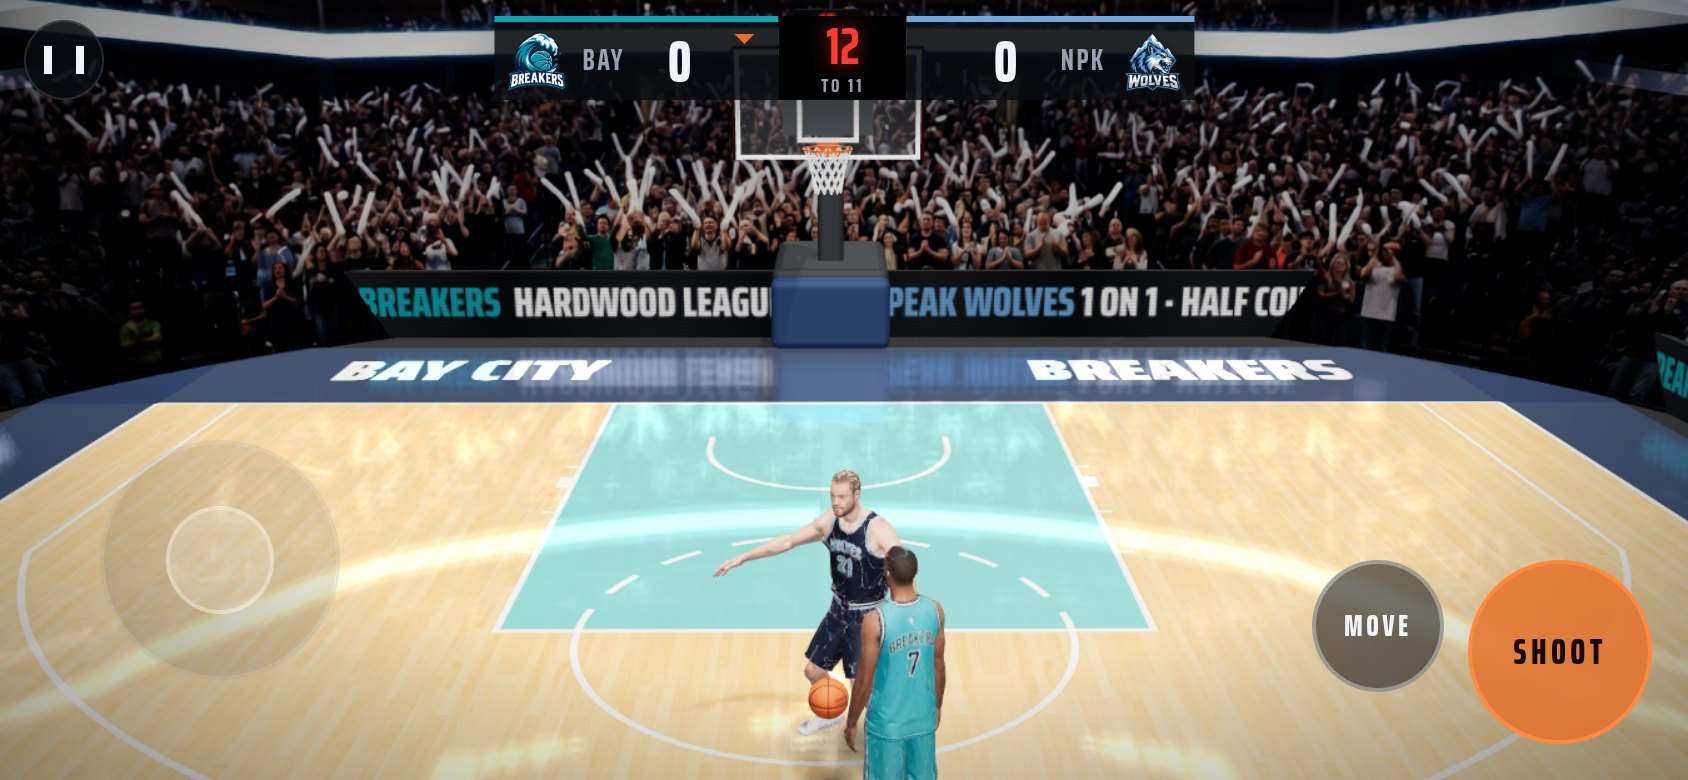
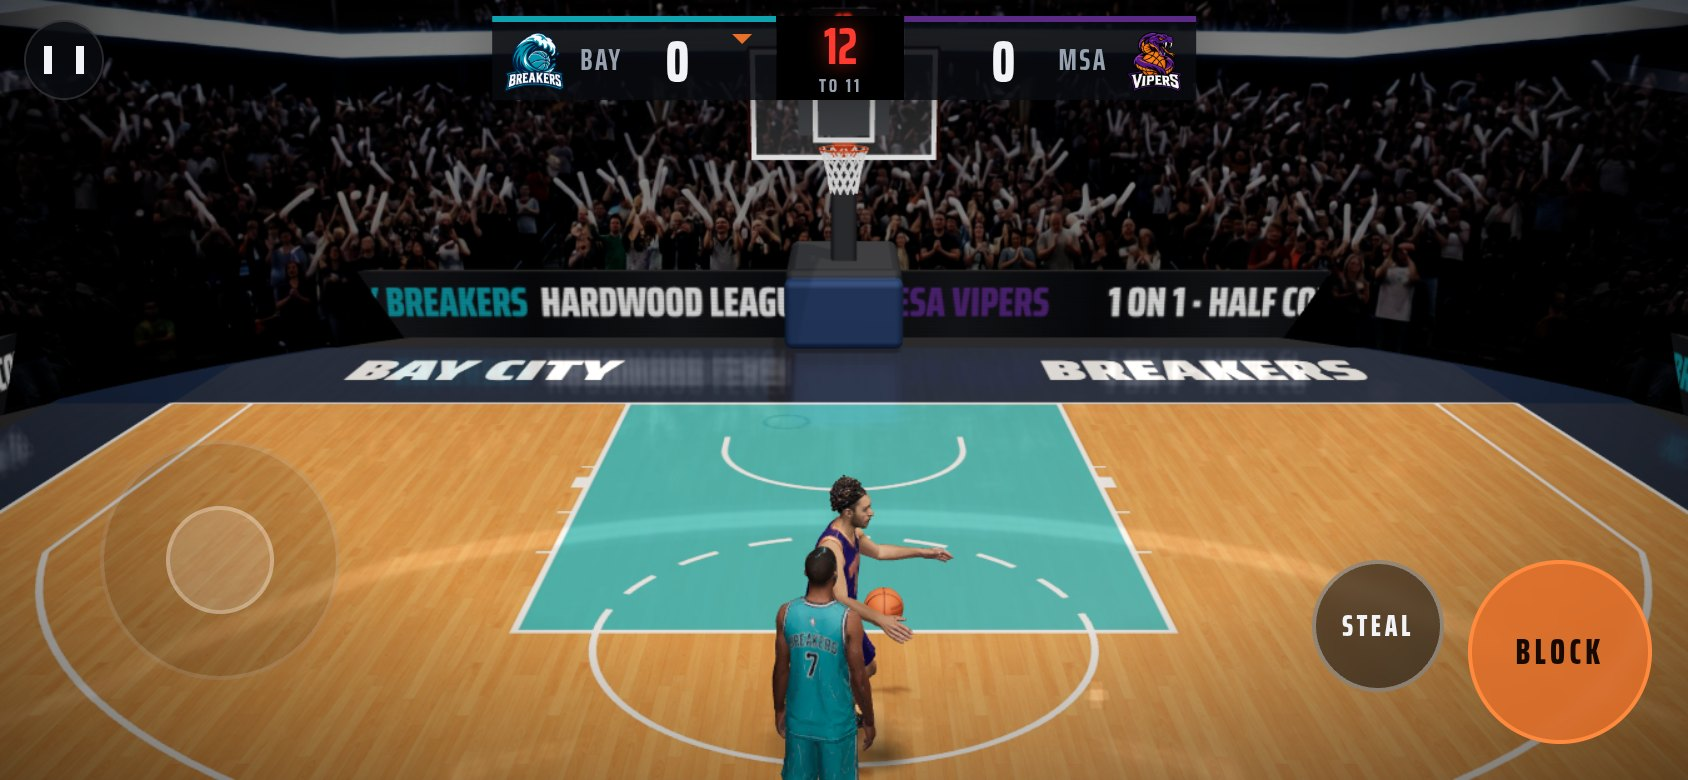
Hardwood: load player models under strict CSP; darker, higher-contrast lighting
- Models: decode the inlined base64 buffer in JS and parse an in-memory
  GLB, since hosts with connect-src 'self' refuse fetches of data: URIs
  (that made every player fall back to the built-in body)
- Lighting: lower exposure, hemisphere/fill/spot and environment
  reflections; warmer, deeper hardwood; dimmer stands; softer floor
  reflections; stronger vignette

Claude-Session: https://claude.ai/code/session_01A6QokmjSrtzSTHC6R9iMnj

diff --git a/hardwood/js/player.js b/hardwood/js/player.js
@@ -7,8 +7,36 @@ import { GLTFLoader } from 'three/addons/loaders/GLTFLoader.js';
 
 const gltfCache = new Map();
 export function loadModel(url) {
-  if (!gltfCache.has(url)) gltfCache.set(url, new GLTFLoader().loadAsync(url));
+  if (!gltfCache.has(url)) gltfCache.set(url, fetchModel(url));
   return gltfCache.get(url);
+}
+
+// Models ship as glTF JSON with the geometry buffer inlined as base64. Strict
+// hosts (CSP connect-src 'self') refuse to fetch data: URIs, so decode the
+// buffer here and hand GLTFLoader an in-memory GLB instead.
+async function fetchModel(url) {
+  const res = await fetch(url);
+  if (!res.ok) throw new Error(`model ${url}: HTTP ${res.status}`);
+  const json = await res.json();
+  const buf = json.buffers && json.buffers[0];
+  const base = url.slice(0, url.lastIndexOf('/') + 1);
+  const loader = new GLTFLoader();
+  if (!buf || !buf.uri || !buf.uri.startsWith('data:')) return loader.parseAsync(JSON.stringify(json), base);
+  const b64 = buf.uri.slice(buf.uri.indexOf(',') + 1);
+  const bin = Uint8Array.from(atob(b64), (c) => c.charCodeAt(0));
+  delete buf.uri;
+  buf.byteLength = bin.length;
+  const enc = new TextEncoder().encode(JSON.stringify(json));
+  const jsonLen = (enc.length + 3) & ~3, binLen = (bin.length + 3) & ~3;
+  const glb = new Uint8Array(12 + 8 + jsonLen + 8 + binLen);
+  const dv = new DataView(glb.buffer);
+  dv.setUint32(0, 0x46546c67, true); dv.setUint32(4, 2, true); dv.setUint32(8, glb.length, true);
+  dv.setUint32(12, jsonLen, true); dv.setUint32(16, 0x4e4f534a, true);
+  glb.set(enc, 20);
+  glb.fill(0x20, 20 + enc.length, 20 + jsonLen);
+  dv.setUint32(20 + jsonLen, binLen, true); dv.setUint32(24 + jsonLen, 0x004e4942, true);
+  glb.set(bin, 28 + jsonLen);
+  return loader.parseAsync(glb.buffer, base);
 }
 
 const _m = new THREE.Matrix4();
@@ -119,9 +147,9 @@ export class Player {
 
   build() {
     const s = this.s, L = this.L, team = this.team, info = this.info;
-    const skin = new THREE.MeshPhysicalMaterial({ color: info.skin, roughness: 0.52, clearcoat: 0.25, clearcoatRoughness: 0.45, sheen: 0.2, sheenColor: new THREE.Color('#ffd9c0') });
-    const jerseyMat = new THREE.MeshPhysicalMaterial({ map: jerseyTexture(team, info, this.away), roughness: 0.78, sheen: 0.6, sheenRoughness: 0.5, sheenColor: new THREE.Color('#ffffff'), side: THREE.DoubleSide });
-    const shortsMat = new THREE.MeshPhysicalMaterial({ map: shortsTexture(team, this.away), roughness: 0.72, sheen: 0.5, sheenColor: new THREE.Color('#ffffff'), side: THREE.DoubleSide });
+    const skin = new THREE.MeshPhysicalMaterial({ color: info.skin, roughness: 0.55, clearcoat: 0.2, clearcoatRoughness: 0.45, sheen: 0.15, sheenColor: new THREE.Color('#ffd9c0'), envMapIntensity: 0.35 });
+    const jerseyMat = new THREE.MeshPhysicalMaterial({ map: jerseyTexture(team, info, this.away), roughness: 0.8, sheen: 0.3, sheenRoughness: 0.5, sheenColor: new THREE.Color('#ffffff'), side: THREE.DoubleSide, envMapIntensity: 0.35 });
+    const shortsMat = new THREE.MeshPhysicalMaterial({ map: shortsTexture(team, this.away), roughness: 0.75, sheen: 0.3, sheenColor: new THREE.Color('#ffffff'), side: THREE.DoubleSide, envMapIntensity: 0.35 });
     const hairMat = new THREE.MeshStandardMaterial({ color: info.hair.color, roughness: 0.85 });
     const sockMat = new THREE.MeshStandardMaterial({ color: '#f2f2f2', roughness: 0.9 });
     const shoeMat = new THREE.MeshStandardMaterial({ color: this.away ? '#f4f4f4' : '#141414', roughness: 0.5 });
@@ -632,7 +660,7 @@ export class Player {
     this.root.traverse((o) => { if (o.isMesh) o.visible = false; });
     // look
     const map = mesh.material.map;
-    mesh.material = new THREE.MeshStandardMaterial({ map, roughness: 0.68, metalness: 0, envMapIntensity: 0.55 });
+    mesh.material = new THREE.MeshStandardMaterial({ map, roughness: 0.7, metalness: 0, envMapIntensity: 0.3 });
     mesh.castShadow = true;
     mesh.receiveShadow = true;
     mesh.frustumCulled = false;

diff --git a/hardwood/js/arena.js b/hardwood/js/arena.js
@@ -52,7 +52,7 @@ const ReflectShader = {
     color: { value: null },
     tDiffuse: { value: null },
     textureMatrix: { value: null },
-    strength: { value: 0.32 },
+    strength: { value: 0.24 },
     texel: { value: new THREE.Vector2(1 / 512, 1 / 512) },
   },
   vertexShader: /* glsl */`
@@ -276,9 +276,9 @@ export async function buildArena(scene, renderer, { home, away, quality }) {
   scene.fog = new THREE.Fog('#050608', 26, 48);
 
   // lights
-  const hemi = new THREE.HemisphereLight('#fff4e6', '#2a1d12', 0.75);
+  const hemi = new THREE.HemisphereLight('#ffe9d0', '#140e0a', 0.32);
   group.add(hemi);
-  const key = new THREE.DirectionalLight('#fff3e2', 2.6);
+  const key = new THREE.DirectionalLight('#fff0dc', 2.25);
   key.position.set(3.5, 17, 11);
   key.target.position.set(0, 0, 6);
   key.castShadow = quality !== 'low';
@@ -289,11 +289,11 @@ export async function buildArena(scene, renderer, { home, away, quality }) {
   key.shadow.normalBias = 0.02;
   key.shadow.radius = 3;
   group.add(key, key.target);
-  const fill = new THREE.DirectionalLight('#dfe8ff', 0.55);
+  const fill = new THREE.DirectionalLight('#dfe8ff', 0.18);
   fill.position.set(-6, 10, -4);
   group.add(fill);
   // warm pools of light over the court
-  const spotA = new THREE.SpotLight('#ffe7c4', 60, 30, 0.5, 0.6, 1.6);
+  const spotA = new THREE.SpotLight('#ffe7c4', 30, 30, 0.46, 0.75, 1.6);
   spotA.position.set(0, 13, 4);
   spotA.target.position.set(0, 0, 4);
   group.add(spotA, spotA.target);
@@ -316,7 +316,7 @@ export async function buildArena(scene, renderer, { home, away, quality }) {
   woodTex.anisotropy = Math.min(8, renderer.capabilities.getMaxAnisotropy());
   const wood = new THREE.Mesh(
     new THREE.PlaneGeometry(woodW, woodL),
-    new THREE.MeshStandardMaterial({ map: woodTex, color: '#f2d7b0', roughness: 0.3, metalness: 0.0, envMapIntensity: 0.55 })
+    new THREE.MeshStandardMaterial({ map: woodTex, color: '#d6b690', roughness: 0.32, metalness: 0.0, envMapIntensity: 0.25 })
   );
   wood.rotation.x = -Math.PI / 2;
   wood.position.set(0, 0, MK.z0 + woodL / 2);
@@ -334,7 +334,7 @@ export async function buildArena(scene, renderer, { home, away, quality }) {
   mkTex.anisotropy = woodTex.anisotropy;
   const markings = new THREE.Mesh(
     new THREE.PlaneGeometry(MK.size, MK.size),
-    new THREE.MeshStandardMaterial({ map: mkTex, transparent: true, roughness: 0.32, depthWrite: false, polygonOffset: true, polygonOffsetFactor: -1, polygonOffsetUnits: -1, envMapIntensity: 0.5 })
+    new THREE.MeshStandardMaterial({ map: mkTex, transparent: true, roughness: 0.32, depthWrite: false, polygonOffset: true, polygonOffsetFactor: -1, polygonOffsetUnits: -1, envMapIntensity: 0.25 })
   );
   markings.rotation.x = -Math.PI / 2;
   markings.position.set(0, 0.001, MK.z0 + MK.size / 2);
@@ -368,7 +368,7 @@ export async function buildArena(scene, renderer, { home, away, quality }) {
   const thetaLen = Math.PI * 1.88;
   const stands = new THREE.Mesh(
     new THREE.CylinderGeometry(14.2, 10.8, 10.2, 120, 1, true, Math.PI - thetaLen / 2, thetaLen),
-    new THREE.MeshBasicMaterial({ map: standsTex, side: THREE.BackSide, color: '#b9b9b9', fog: false })
+    new THREE.MeshBasicMaterial({ map: standsTex, side: THREE.BackSide, color: '#8e8e8e', fog: false })
   );
   stands.position.set(0, 4.6, 6.2);
   group.add(stands);
@@ -475,7 +475,7 @@ export async function buildArena(scene, renderer, { home, away, quality }) {
   hoop.add(clockBox);
 
   // rim + bracket
-  const rimMat = new THREE.MeshStandardMaterial({ color: '#e0521b', roughness: 0.32, metalness: 0.55, envMapIntensity: 1.2 });
+  const rimMat = new THREE.MeshStandardMaterial({ color: '#e0521b', roughness: 0.32, metalness: 0.55, envMapIntensity: 0.8 });
   const rim = new THREE.Mesh(new THREE.TorusGeometry(COURT.rimR + COURT.rimTube, COURT.rimTube, 10, 56), rimMat);
   rim.rotation.x = Math.PI / 2;
   rim.position.copy(RIM);

diff --git a/hardwood/js/main.js b/hardwood/js/main.js
@@ -37,7 +37,7 @@ function makeRenderer() {
   renderer = new THREE.WebGLRenderer({ canvas, antialias: q !== 'low', powerPreference: 'high-performance', stencil: false });
   renderer.setPixelRatio(Math.min(window.devicePixelRatio || 1, q === 'high' ? 2 : q === 'med' ? 1.6 : 1));
   renderer.toneMapping = THREE.ACESFilmicToneMapping;
-  renderer.toneMappingExposure = 1.05;
+  renderer.toneMappingExposure = 0.82;
   renderer.outputColorSpace = THREE.SRGBColorSpace;
   renderer.shadowMap.enabled = q !== 'low';
   renderer.shadowMap.type = THREE.PCFSoftShadowMap;

diff --git a/hardwood/index.html b/hardwood/index.html
@@ -40,7 +40,7 @@ button:focus-visible { outline: 2px solid var(--leather-hi); outline-offset: 3px
 
 #gl { position: fixed; inset: 0; width: 100%; height: 100%; display: block; }
 .grade { position: fixed; inset: 0; pointer-events: none;
-  background: radial-gradient(ellipse at 50% 45%, rgba(0,0,0,0) 55%, rgba(0,0,0,0.42) 100%); }
+  background: radial-gradient(ellipse at 50% 45%, rgba(0,0,0,0) 50%, rgba(0,0,0,0.55) 100%); }
 
 /* ---------- HUD ---------- */
 #hud { position: fixed; inset: 0; pointer-events: none; z-index: 3; }
